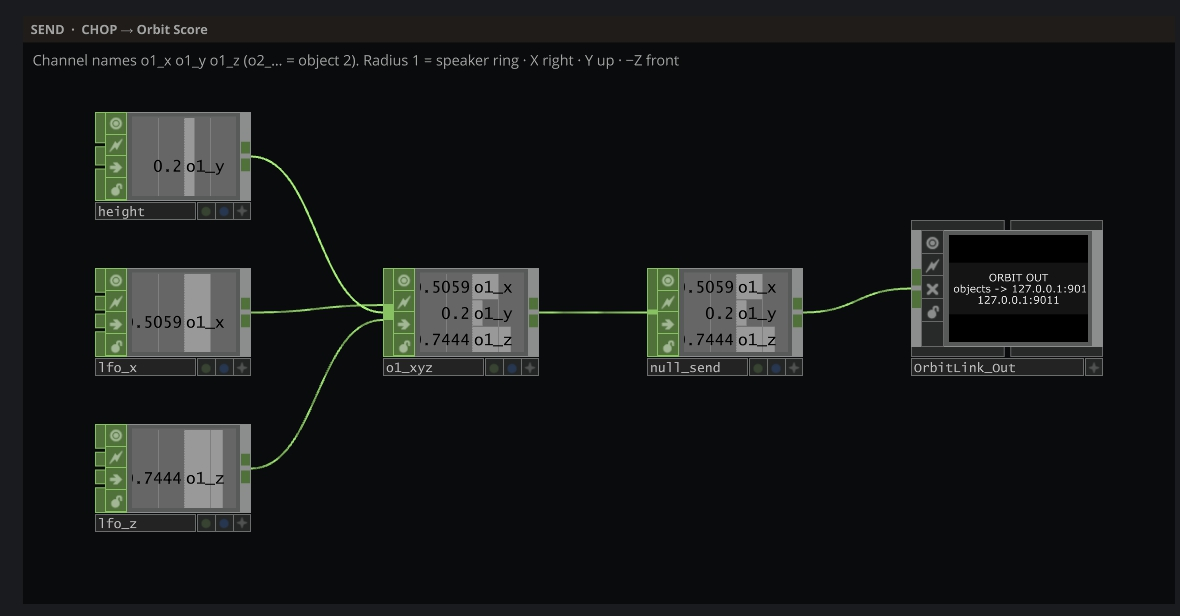
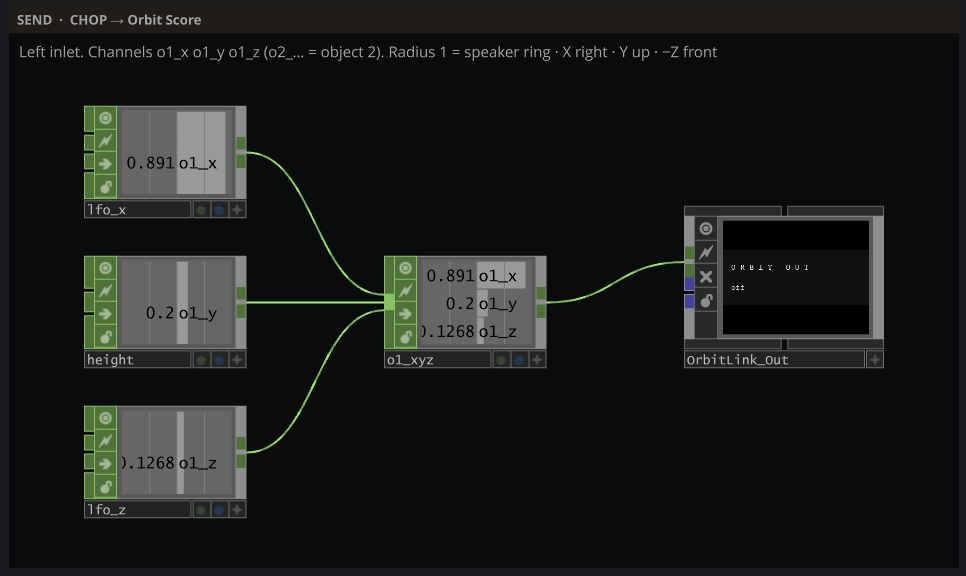
Wiki: Orbit Link POP output (In) and POP input (Out); new, simpler example networks
Claude-Session: https://claude.ai/code/session_01TKc1CDoWRtRwsAG1rPAYtG

Changed region(s): [[0.0621, 0.1562, 0.9317, 0.9062], [0.0, 0.0312, 0.6211, 0.125], [0.6832, 0.0625, 0.7453, 0.0938]]

diff --git a/orbitscore-wiki/index.html b/orbitscore-wiki/index.html
@@ -481,6 +481,7 @@ footer{font:400 11px/1.6 var(--f-title);letter-spacing:.04em;color:var(--mid);bo
   <p>Orbit Link sends the objects' positions, levels, colours and the scene state as OSC to other projects, and receives positions and settings from them.</p>
   <h3>OrbitLink_In.tox</h3>
   <p>A TouchDesigner component that receives Orbit Score's data. Output <strong>out1</strong> is a CHOP with <code>count</code> and <code>o1_x o1_y o1_z</code>, <code>o2_x</code> … per object, in Live's track order. Status shows <span class="mono">3 objects · live</span> while data arrives.</p>
+  <p>The POP output gives one point per object (point 0 = object 1) with <code>P</code> (position), <code>Color</code> (track colour), <code>level</code>, <code>speed</code> and <code>id</code> (object number). It is always on and can go straight into instancing or any POP.</p>
   <div class="tw"><table>
     <tr><th>Out toggle</th><th>Channels</th></tr>
     <tr><td>Az El Dist</td><td><code>o1_az o1_el o1_dist</code></td></tr>
@@ -490,21 +491,26 @@ footer{font:400 11px/1.6 var(--f-title);letter-spacing:.04em;color:var(--mid);bo
   </table></div>
   <p>Positions are in ring radii: 1 = the speaker ring, X right, Y up, −Z front.</p>
   <h3>OrbitLink_Out.tox</h3>
-  <p>A TouchDesigner component that moves objects from another project. Its input takes a CHOP with channels named as in OrbitLink_In (<code>o1_x o1_y o1_z</code> …), or a CHOP with one sample per object from POP to CHOP / SOP to CHOP (<code>P_0 P_1 P_2</code>, <code>tx ty tz</code>, <code>x y z</code> or <code>az el dist</code>; sample 0 = object 1).</p>
+  <p>A TouchDesigner component that moves objects from another project. It has two inputs.</p>
+  <ul>
+    <li><strong>CHOP (left)</strong>: channels named as in OrbitLink_In (<code>o1_x o1_y o1_z</code> …), or one sample per object (<code>tx ty tz</code>, <code>x y z</code>, <code>P_0 P_1 P_2</code> or <code>az el dist</code>; sample 0 = object 1).</li>
+    <li><strong>POP (right)</strong>: any POP. Point 0 moves object 1, point 1 moves object 2, and so on. If both inputs give the same object, the POP wins.</li>
+  </ul>
   <div class="tw"><table>
     <tr><th>Parameter</th><th>Function</th></tr>
     <tr><td>Position Scale</td><td>Scale when the source is not in ring radii</td></tr>
     <tr><td>Objects</td><td>Objects it may move: <code>*</code>, <code>2</code>, <code>1-3 5</code></td></tr>
+    <tr><td>Send POP Color</td><td>A point's <code>Color</code> sets its object's track colour in Live. Off by default, because the colour is saved in the set</td></tr>
   </table></div>
   <p>While positions arrive, the objects follow them and their motion and position are locked in the editor. About 1.5 s after the stream stops, they return to their own motion. Received positions are not saved in the set.</p>
   <div class="note"><b>NOTE</b>Feeding OrbitLink_In's values back into OrbitLink_Out for the same objects creates a feedback loop. A UDP port can be opened by one program at a time.</div>
   <h3>Examples</h3>
-  <p><strong>Receive: positions to visuals.</strong> Select <code>o*_x o*_y o*_z</code> from out1, then Shuffle with <em>Sequence by N</em> = 3 and <em>First Sample Only</em>, then rename the channels to <code>tx ty tz</code>. This gives one sample per object, ready for instancing on a Geometry COMP. Do the same with <code>o*_r o*_g o*_b</code> for the track colours.</p>
-  <figure><img src="media/link-receive.jpg?v=1124" alt="OrbitLink_In out1 into select, shuffle and rename for positions and colours, merged into an instancing Geometry COMP and rendered: three coloured spheres inside the speaker ring" loading="lazy" width="1668" height="547"><figcaption>FIG. 6.1 — Receive: one instance per object</figcaption></figure>
-  <p><strong>Send from a CHOP.</strong> Name the channels <code>o1_x o1_y o1_z</code> (<code>o2_…</code> for object 2), wire them into OrbitLink_Out and turn on Send Enable.</p>
-  <figure><img src="media/link-send-chop.jpg?v=1124" alt="Two LFO CHOPs and a Constant named o1_x o1_y o1_z, merged into a Null and wired into OrbitLink_Out" loading="lazy" width="1180" height="616"><figcaption>FIG. 6.2 — Send from a CHOP: object 1 on a circle</figcaption></figure>
-  <p><strong>Send from a POP.</strong> POP to CHOP gives one sample per point, with channels <code>P_0 P_1 P_2</code>. Point 0 moves object 1, point 1 moves object 2, and so on.</p>
-  <figure><img src="media/link-send-pop.jpg?v=1124" alt="Circle POP with four points, Transform and Noise POPs, POP to CHOP with channels P_0 P_1 P_2, wired into OrbitLink_Out" loading="lazy" width="1396" height="328"><figcaption>FIG. 6.3 — Send from a POP: four points move objects 1–4</figcaption></figure>
+  <p><strong>Receive: positions to visuals.</strong> Point a Geometry COMP's instancing at OrbitLink_In's POP output: <code>P(0) P(1) P(2)</code> for translate and <code>Color(0) Color(1) Color(2)</code> for colour. Each object becomes one instance in its track colour.</p>
+  <figure><img src="media/link-receive.jpg?v=1125" alt="OrbitLink_In POP output through a Null POP into an instancing Geometry COMP, with a stage COMP for camera and ring, rendered: four coloured spheres inside the speaker ring" loading="lazy" width="1258" height="572"><figcaption>FIG. 6.1 — Receive: one instance per object</figcaption></figure>
+  <p><strong>Send from a CHOP.</strong> Name the channels <code>o1_x o1_y o1_z</code> (<code>o2_…</code> for object 2), wire them into the left input of OrbitLink_Out and turn on Send Enable.</p>
+  <figure><img src="media/link-send-chop.jpg?v=1125" alt="Two LFO CHOPs and a Constant named o1_x o1_y o1_z, merged and wired into the left input of OrbitLink_Out" loading="lazy" width="966" height="576"><figcaption>FIG. 6.2 — Send from a CHOP: object 1 on a circle</figcaption></figure>
+  <p><strong>Send from a POP.</strong> Wire the POP into the right input. Point 0 moves object 1, point 1 moves object 2, and so on.</p>
+  <figure><img src="media/link-send-pop.jpg?v=1125" alt="Circle POP with four points, Transform POP and Noise POP wired into the right input of OrbitLink_Out" loading="lazy" width="1194" height="314"><figcaption>FIG. 6.3 — Send from a POP: four points move objects 1–4</figcaption></figure>
   <h3>OSC</h3>
   <p>Orbit Link is plain OSC and can be used from Max, Unity, Unreal, Resolume and others. Orbit Score sends to port <strong>9010</strong> and receives on <strong>9011</strong> (set on the <code>Spatialisation_test</code> component, Objects page). <code>n</code> = the object's number in Live's track order, from 1.</p>
   <div class="tw"><table>
@@ -630,7 +636,7 @@ footer{font:400 11px/1.6 var(--f-title);letter-spacing:.04em;color:var(--mid);bo
     <tr><th>Version</th><th>Contents</th></tr>
     <tr><td>1.0</td><td>First public release (planned)</td></tr>
     <tr><td>0.9 · beta (Nov 24)</td><td>Groups with their own motion, saved in the Live set · box size along X · Y · Z, drawn as a glowing box · new transition window (Overshoot and Custom curves, AMOUNT and PEAK) · scene rows with object dots and curve icons · timeline with Live's arrangement clips, AUTO SCENE and play button · dropdowns on the SPACE and SCENES tabs · black theme reworked · delete asks first</td></tr>
-    <tr><td>0.9 · beta</td><td>Scenes: transitions with curves, stagger and room, quantize, Scene and Morph from Live, <code>@Name</code> clips, preview, export / import, morph pad · editor: paths drawn on the canvas, several objects and groups, copy / paste, XYZ, undo · room and distance on headphones and speakers: reverb, reflections, measured HRTF, AIR, FAR THIN, NEAR BASS, Doppler · Orbit Link transport, chaos values, track colour and name</td></tr>
+    <tr><td>0.9 · beta</td><td>Scenes: transitions with curves, stagger and room, quantize, Scene and Morph from Live, <code>@Name</code> clips, preview, export / import, morph pad · editor: paths drawn on the canvas, several objects and groups, copy / paste, XYZ, undo · room and distance on headphones and speakers: reverb, reflections, measured HRTF, AIR, FAR THIN, NEAR BASS, Doppler · Orbit Link transport, chaos values, track colour and name, POP in / out</td></tr>
     <tr><td>0.8</td><td>Spatial Renderer: speakers inside Live, up to 64, VBAP / DBAP / Ambisonics / WFS, custom layouts, distance compensation · Chaos motion · Spread · Speed effect</td></tr>
     <tr><td>0.7</td><td>Spatial Object with eight motions, line shape and paths · scenes linked to locators · Orbit Link In / Out</td></tr>
   </table></div>
@@ -948,6 +954,7 @@ footer{font:400 11px/1.6 var(--f-title);letter-spacing:.04em;color:var(--mid);bo
   <p>Orbit Link는 오브젝트의 위치, 레벨, 색, 씬 상태를 OSC로 다른 프로젝트에 보내고, 다른 프로젝트에서 위치와 설정을 받습니다.</p>
   <h3>OrbitLink_In.tox</h3>
   <p>Orbit Score의 데이터를 받는 TouchDesigner 컴포넌트입니다. 출력 <strong>out1</strong>은 <code>count</code>와 오브젝트별 <code>o1_x o1_y o1_z</code>, <code>o2_x</code> …가 담긴 CHOP입니다(Live 트랙 순서). 데이터가 들어오는 동안 Status에 <span class="mono">3 objects · live</span>가 표시됩니다.</p>
+  <p>POP 출력은 오브젝트마다 점 하나(점 0 = 오브젝트 1)를 내보내며 <code>P</code>(위치), <code>Color</code>(트랙 색), <code>level</code>, <code>speed</code>, <code>id</code>(오브젝트 번호)를 담습니다. 항상 켜져 있고 인스턴싱이나 다른 POP에 바로 연결할 수 있습니다.</p>
   <div class="tw"><table>
     <tr><th>Out 토글</th><th>채널</th></tr>
     <tr><td>Az El Dist</td><td><code>o1_az o1_el o1_dist</code></td></tr>
@@ -957,21 +964,26 @@ footer{font:400 11px/1.6 var(--f-title);letter-spacing:.04em;color:var(--mid);bo
   </table></div>
   <p>위치 단위는 링 반지름입니다: 1 = 스피커 링, X 오른쪽, Y 위, −Z 정면.</p>
   <h3>OrbitLink_Out.tox</h3>
-  <p>다른 프로젝트에서 오브젝트를 움직이는 TouchDesigner 컴포넌트입니다. 입력에는 OrbitLink_In과 같은 이름의 채널(<code>o1_x o1_y o1_z</code> …)을 가진 CHOP, 또는 POP to CHOP / SOP to CHOP처럼 오브젝트당 샘플 하나인 CHOP(<code>P_0 P_1 P_2</code>, <code>tx ty tz</code>, <code>x y z</code>, <code>az el dist</code>; 샘플 0 = 오브젝트 1)을 연결합니다.</p>
+  <p>다른 프로젝트에서 오브젝트를 움직이는 TouchDesigner 컴포넌트입니다. 입력은 두 개입니다.</p>
+  <ul>
+    <li><strong>CHOP(왼쪽)</strong>: OrbitLink_In과 같은 이름의 채널(<code>o1_x o1_y o1_z</code> …), 또는 오브젝트당 샘플 하나(<code>tx ty tz</code>, <code>x y z</code>, <code>P_0 P_1 P_2</code>, <code>az el dist</code>; 샘플 0 = 오브젝트 1).</li>
+    <li><strong>POP(오른쪽)</strong>: 어떤 POP이든 연결합니다. 점 0이 오브젝트 1, 점 1이 오브젝트 2를 움직입니다. 두 입력이 같은 오브젝트를 보내면 POP이 우선합니다.</li>
+  </ul>
   <div class="tw"><table>
     <tr><th>파라미터</th><th>기능</th></tr>
     <tr><td>Position Scale</td><td>입력 단위가 링 반지름이 아닐 때의 배율</td></tr>
     <tr><td>Objects</td><td>움직일 오브젝트: <code>*</code>, <code>2</code>, <code>1-3 5</code></td></tr>
+    <tr><td>Send POP Color</td><td>점의 <code>Color</code>로 해당 오브젝트의 Live 트랙 색을 바꿉니다. 색은 세트에 저장되므로 기본은 꺼져 있습니다</td></tr>
   </table></div>
   <p>위치를 받는 동안 오브젝트는 그 위치를 따르며, 에디터에서 움직임과 위치가 잠깁니다. 전송이 멈추면 약 1.5초 뒤 원래 움직임으로 돌아갑니다. 받은 위치는 세트에 저장되지 않습니다.</p>
   <div class="note"><b>NOTE</b>같은 오브젝트의 OrbitLink_In 값을 OrbitLink_Out으로 되돌리면 피드백이 생깁니다. UDP 포트 하나는 한 프로그램만 열 수 있습니다.</div>
   <h3>사용 예</h3>
-  <p><strong>받기: 위치로 비주얼 만들기.</strong> out1에서 <code>o*_x o*_y o*_z</code>를 Select로 고르고, Shuffle(<em>Sequence by N</em> = 3, <em>First Sample Only</em>)을 거쳐 채널 이름을 <code>tx ty tz</code>로 바꿉니다. 오브젝트당 샘플 하나가 되어 Geometry COMP 인스턴싱에 바로 쓸 수 있습니다. 트랙 색은 <code>o*_r o*_g o*_b</code>로 같은 과정을 거칩니다.</p>
-  <figure><img src="media/link-receive.jpg?v=1124" alt="OrbitLink_In out1에서 위치와 색을 select, shuffle, rename으로 정리해 인스턴싱 Geometry COMP로 렌더: 스피커 링 안의 색 구 세 개" loading="lazy" width="1668" height="547"><figcaption>FIG. 6.1 — 받기: 오브젝트마다 인스턴스 하나</figcaption></figure>
-  <p><strong>CHOP으로 보내기.</strong> 채널 이름을 <code>o1_x o1_y o1_z</code>로 정하고(오브젝트 2는 <code>o2_…</code>) OrbitLink_Out에 연결한 뒤 Send Enable을 켭니다.</p>
-  <figure><img src="media/link-send-chop.jpg?v=1124" alt="LFO CHOP 두 개와 Constant(o1_x o1_y o1_z)를 Merge, Null을 거쳐 OrbitLink_Out에 연결" loading="lazy" width="1180" height="616"><figcaption>FIG. 6.2 — CHOP으로 보내기: 원을 그리는 오브젝트 1</figcaption></figure>
-  <p><strong>POP으로 보내기.</strong> POP to CHOP은 점마다 샘플 하나를 만들고 채널 이름은 <code>P_0 P_1 P_2</code>입니다. 점 0이 오브젝트 1, 점 1이 오브젝트 2를 움직입니다.</p>
-  <figure><img src="media/link-send-pop.jpg?v=1124" alt="점 네 개의 Circle POP, Transform POP, Noise POP, POP to CHOP(P_0 P_1 P_2)을 OrbitLink_Out에 연결" loading="lazy" width="1396" height="328"><figcaption>FIG. 6.3 — POP으로 보내기: 점 네 개가 오브젝트 1–4를 움직임</figcaption></figure>
+  <p><strong>받기: 위치로 비주얼 만들기.</strong> Geometry COMP 인스턴싱에 OrbitLink_In의 POP 출력을 지정하고, 이동에 <code>P(0) P(1) P(2)</code>, 색에 <code>Color(0) Color(1) Color(2)</code>를 넣습니다. 오브젝트마다 트랙 색의 인스턴스가 하나씩 생깁니다.</p>
+  <figure><img src="media/link-receive.jpg?v=1125" alt="OrbitLink_In의 POP 출력을 Null POP을 거쳐 인스턴싱 Geometry COMP에 연결하고 카메라와 링은 stage COMP에 둔 렌더: 스피커 링 안의 색 구 네 개" loading="lazy" width="1258" height="572"><figcaption>FIG. 6.1 — 받기: 오브젝트마다 인스턴스 하나</figcaption></figure>
+  <p><strong>CHOP으로 보내기.</strong> 채널 이름을 <code>o1_x o1_y o1_z</code>로 정하고(오브젝트 2는 <code>o2_…</code>) OrbitLink_Out의 왼쪽 입력에 연결한 뒤 Send Enable을 켭니다.</p>
+  <figure><img src="media/link-send-chop.jpg?v=1125" alt="LFO CHOP 두 개와 Constant(o1_x o1_y o1_z)를 Merge해 OrbitLink_Out 왼쪽 입력에 연결" loading="lazy" width="966" height="576"><figcaption>FIG. 6.2 — CHOP으로 보내기: 원을 그리는 오브젝트 1</figcaption></figure>
+  <p><strong>POP으로 보내기.</strong> POP을 오른쪽 입력에 연결합니다. 점 0이 오브젝트 1, 점 1이 오브젝트 2를 움직입니다.</p>
+  <figure><img src="media/link-send-pop.jpg?v=1125" alt="점 네 개의 Circle POP, Transform POP, Noise POP을 OrbitLink_Out 오른쪽 입력에 연결" loading="lazy" width="1194" height="314"><figcaption>FIG. 6.3 — POP으로 보내기: 점 네 개가 오브젝트 1–4를 움직임</figcaption></figure>
   <h3>OSC</h3>
   <p>Orbit Link는 일반 OSC로 Max, Unity, Unreal, Resolume 등에서도 사용할 수 있습니다. Orbit Score는 <strong>9010</strong> 포트로 보내고 <strong>9011</strong>에서 받습니다(<code>Spatialisation_test</code> 컴포넌트의 Objects 페이지에서 설정). <code>n</code> = Live 트랙 순서상 오브젝트 번호(1부터).</p>
   <div class="tw"><table>
@@ -1097,7 +1109,7 @@ footer{font:400 11px/1.6 var(--f-title);letter-spacing:.04em;color:var(--mid);bo
     <tr><th>버전</th><th>내용</th></tr>
     <tr><td>1.0</td><td>첫 공식 릴리즈 (예정)</td></tr>
     <tr><td>0.9 · beta (11월 24일)</td><td>그룹과 그룹 움직임(Live 세트에 저장) · 상자 크기 X · Y · Z, 빛나는 상자로 표시 · 새 전환 창(Overshoot, Custom 커브, AMOUNT·PEAK) · 오브젝트 점과 커브 아이콘이 있는 씬 줄 · Live 어레인지먼트 클립을 보여 주는 타임라인, AUTO SCENE, 재생 버튼 · SPACE·SCENES 탭 목록 선택 · 블랙 테마 정리 · 삭제 전 확인</td></tr>
-    <tr><td>0.9 · 베타</td><td>씬: 곡선·스태거·룸을 포함한 전환, 퀀타이즈, Live에서 Scene·Morph, <code>@이름</code> 클립, 미리보기, 내보내기/불러오기, Morph 패드 · 에디터: 캔버스에서 경로 그리기, 여러 오브젝트와 그룹, 복사·붙여넣기, XYZ, 되돌리기 · 헤드폰·스피커의 룸과 거리감: 리버브, 반사음, 실측 HRTF, AIR, FAR THIN, NEAR BASS, 도플러 · Orbit Link 트랜스포트, 카오스 값, 트랙 색·이름</td></tr>
+    <tr><td>0.9 · 베타</td><td>씬: 곡선·스태거·룸을 포함한 전환, 퀀타이즈, Live에서 Scene·Morph, <code>@이름</code> 클립, 미리보기, 내보내기/불러오기, Morph 패드 · 에디터: 캔버스에서 경로 그리기, 여러 오브젝트와 그룹, 복사·붙여넣기, XYZ, 되돌리기 · 헤드폰·스피커의 룸과 거리감: 리버브, 반사음, 실측 HRTF, AIR, FAR THIN, NEAR BASS, 도플러 · Orbit Link 트랜스포트, 카오스 값, 트랙 색·이름, POP 입·출력</td></tr>
     <tr><td>0.8</td><td>Spatial Renderer: Live 안에서 스피커 재생, 최대 64개, VBAP / DBAP / 앰비소닉스 / WFS, Custom 레이아웃, 거리 보정 · Chaos 움직임 · Spread · Speed 효과</td></tr>
     <tr><td>0.7</td><td>8가지 움직임, 선 모양, 경로가 있는 Spatial Object · 로케이터와 연결된 씬 · Orbit Link In / Out</td></tr>
   </table></div>
